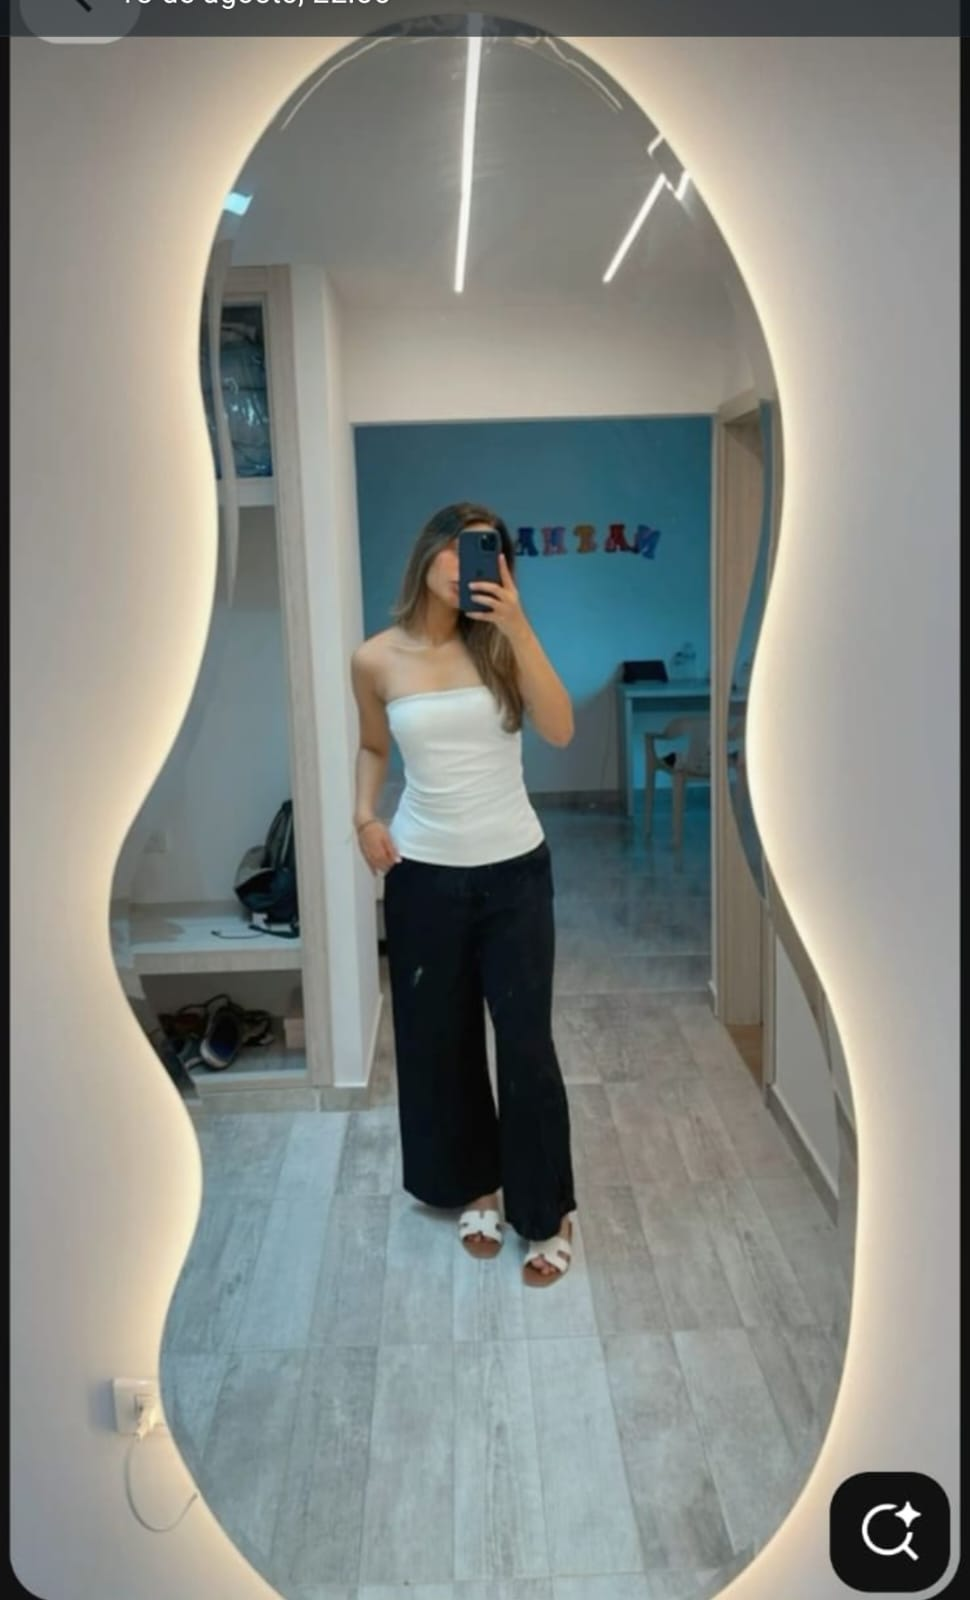
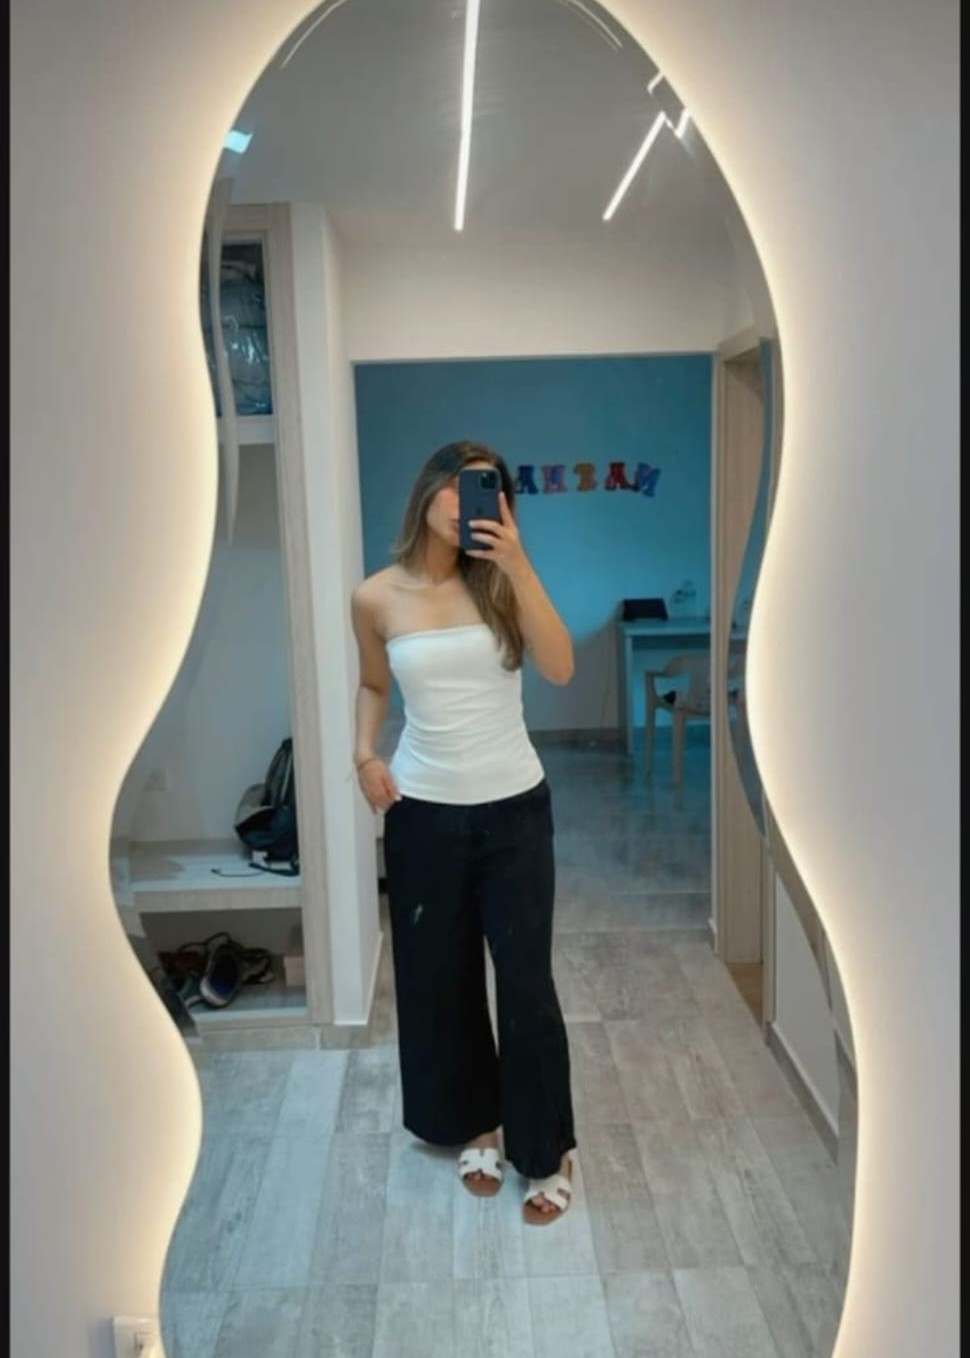
Actualizacion del texto en el pie de pagina

diff --git a/index.html b/index.html
@@ -98,7 +98,7 @@
 <!-- HERO -->
 <section id="inicio" class="relative min-h-screen flex items-center overflow-hidden">
   <div class="absolute inset-0">
-    <img src="https://images.unsplash.com/photo-1486406146926-c627a92ad1ab?w=1920&q=80" alt="Fachada arquitectónica de vidrio y aluminio" class="w-full h-full object-cover">
+    <img src="./img/Galeria/Global.jpeg" alt="Fachada arquitectónica de vidrio y aluminio" class="w-full h-full object-cover">
     <div class="absolute inset-0 bg-gradient-to-r from-[#4a4a4a]/90 via-[#4a4a4a]/70 to-[#4a4a4a]/40"></div>
   </div>
   <div class="relative z-10 max-w-7xl mx-auto px-4 sm:px-6 lg:px-8 py-32 w-full">
@@ -263,7 +263,7 @@
           <div class="text-xs text-white/60">Aluminio · Vidrio</div>
         </div>
       </div>
-      <p class="mt-4 text-sm text-white/70 max-w-xs">Expertos en acabados modernos para hogares y empresas.(Mas texto) </p>
+      <p class="mt-4 text-sm text-white/70 max-w-xs">Expertos en acabados modernos para hogares y empresas. Desde pequeños detalles residenciales hasta grandes proyectos de construcción, en Globaltecni transformamos tus espacios con soluciones en aluminio y vidrio a tu medida. Calidad, precisión y elegancia en cada trabajo. ¡Contáctanos y cotiza tu proyecto sin compromiso! </p>
     </div>
     <div>
       <h4 class="font-bold text-lg">Contacto</h4>
@@ -426,7 +426,6 @@ const gallery = [
   { src: './img/Galeria/mesas/m1.jpg', cat: 'Mesas', title: '' },
   // --- GRABADOS ---
 { src: './img/Galeria/Grabados/7e044ed1-007d-497b-a078-91b0b6ae2c20.png', cat: 'Grabados', title: 'Grabados en vidrio' },
-  { src: './img/Galeria/Grabados/DSC00508.JPG', cat: 'Grabados', title: '' },
   { src: './img/Galeria/Grabados/DSC00501.JPG', cat: 'Grabados', title: '' },
   { src: './img/Galeria/Grabados/DSC00342.JPG', cat: 'Grabados', title: '' },
   { src: './img/Galeria/Grabados/DSC00164.JPG', cat: 'Grabados', title: '' },
@@ -532,9 +531,13 @@ const galleryEl = document.getElementById('gallery-grid');
 function renderGallery() {
   galleryEl.innerHTML = '';
   
+  // Cambiamos las clases del contenedor para habilitar el scroll horizontal fluido
+  // flex, overflow-x-auto (para el scroll) y snap-x (para que las fotos se centren al soltar el dedo)
+  galleryEl.className = 'mt-12 flex overflow-x-auto gap-4 sm:gap-6 pb-8 snap-x snap-mandatory';
+
   let filtered = [];
 
-  // 1. LÓGICA: 1 foto por categoría en "Todos", o todas las fotos si se elige una categoría
+  // Lógica: 1 foto por categoría en "Todos", o todas las fotos si se elige una categoría
   if (currentFilter === 'Todos') {
     const categoriasVistas = new Set();
     gallery.forEach(item => {
@@ -547,14 +550,13 @@ function renderGallery() {
     filtered = gallery.filter(g => g.cat === currentFilter);
   }
 
-  // 2. RENDERIZADO DE LAS TARJETAS
+  // RENDERIZADO DE LAS TARJETAS
   filtered.forEach(item => {
     const btn = document.createElement('button');
-    // Usamos animate-scale-in en lugar de reveal para asegurar que aparezcan al instante sin depender del scroll
-    btn.className = 'animate-scale-in group relative overflow-hidden rounded-2xl aspect-square shadow-card hover:shadow-elegant transition-shadow text-left cursor-pointer';
+    // Le agregamos 'flex-none', un ancho fijo ('w-[85vw]' para celular, 'sm:w-80' para PC) y 'snap-center'
+    btn.className = 'animate-scale-in group relative overflow-hidden rounded-2xl aspect-square shadow-card hover:shadow-elegant transition-shadow text-left cursor-pointer flex-none w-[85vw] sm:w-80 snap-center';
     btn.onclick = () => openLightbox(item.src, item.title);
     btn.innerHTML = `
-      <!-- 3. LÓGICA DE ERROR: Si falla la ruta de la imagen, ocultamos todo el botón -->
       <img src="${item.src}" alt="${item.title}" loading="lazy" class="w-full h-full object-cover transition-transform duration-700 group-hover:scale-110" onerror="this.parentElement.style.display='none'">
       <div class="absolute inset-0 bg-gradient-to-t from-[#4a4a4a]/90 via-[#4a4a4a]/30 to-transparent opacity-70 group-hover:opacity-100 transition-opacity"></div>
       <div class="absolute bottom-0 left-0 right-0 p-6 text-left text-white translate-y-2 group-hover:translate-y-0 transition-transform">
